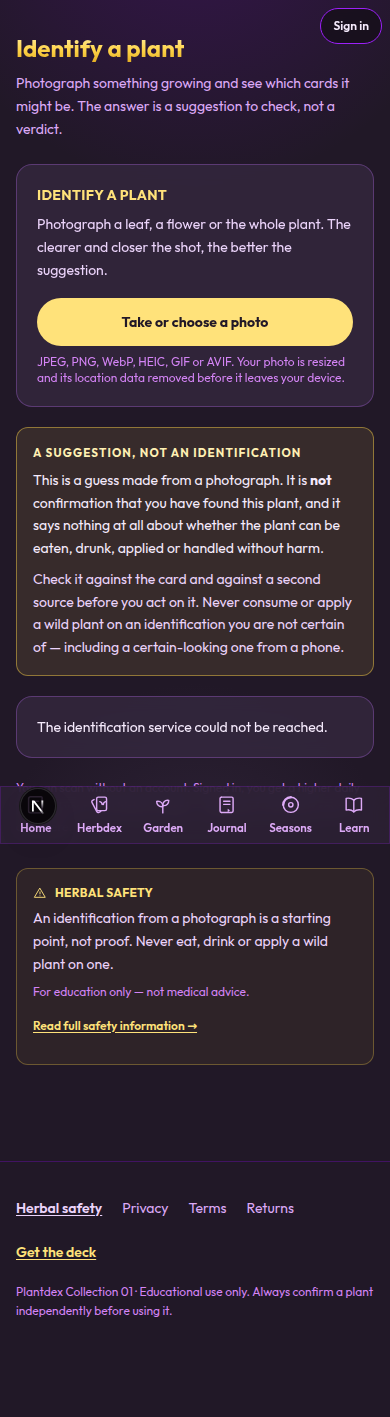
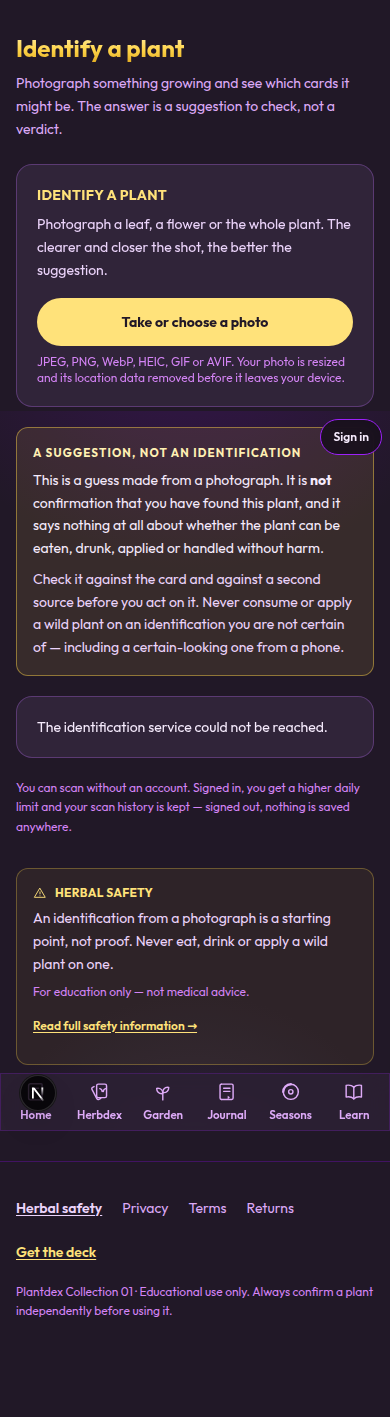
Put the scan answer where the player is looking
The report was "it says Identifying…, then nothing happens and the button
resets". The answer was arriving correctly every time — it was landing off the
bottom of the screen.

Measured on the deployed site rather than reasoned about. At 390x720, an
ordinary iPhone viewport once Safari's chrome is subtracted, the result heading
rendered at y=717 while the fixed bottom nav starts at y=662: below the fold and
behind the nav at once. At 360x640 it was worse. The page never scrolled and
nothing marked its arrival, so the only thing that visibly changed was the
button going back to its resting label — which is exactly what was described.

It applied to every outcome, not just matches. The falsification run below
reproduces it on the ERROR path: "The identification service could not be
reached." rendered at y=696 against a floor of 662. Any player whose scan
failed was told so, invisibly.

Scrolling to the RESULT would have been the wrong fix. The caution sits above
the answer so it is read WITH it, and a scroll that brought the answer on screen
without it would have stripped the safety framing off the one moment it exists
for. So the caution and the answer are now one region, and the region comes into
view: caution at the top of the screen, answer beneath it, as composed. It moves
only when the region is not already fully visible, so a desktop layout that fits
does not jump, and it honours prefers-reduced-motion.
[…]

diff --git a/src/components/scan/ScanPanel.tsx b/src/components/scan/ScanPanel.tsx
@@ -1,6 +1,6 @@
 'use client';
 
-import { useCallback, useRef, useState } from 'react';
+import { useCallback, useEffect, useRef, useState } from 'react';
 import Link from 'next/link';
 import { useAuth } from '@/state/AuthProvider';
 import { useHerbdex } from '@/state/HerbdexProvider';
@@ -35,6 +35,28 @@ export function ScanPanel() {
   const [problem, setProblem] = useState<string | null>(null);
   const [rateLimited, setRateLimited] = useState<{ signedIn: boolean } | null>(null);
   const [confirmed, setConfirmed] = useState<string | null>(null);
+
+  const answerRef = useRef<HTMLDivElement>(null);
+
+  /*
+   * Bring the answer to the player rather than trusting them to go and find it.
+   *
+   * Only when it is not already fully on screen, so a desktop layout where everything fits
+   * does not jump for no reason. `block: 'start'` puts the caution at the top of the viewport
+   * with the result under it. The fixed bottom nav is why this is measured against the
+   * viewport rather than assumed: a region can end inside `innerHeight` and still be hidden.
+   */
+  useEffect(() => {
+    if (!result && !problem) return;
+    const node = answerRef.current;
+    if (!node) return;
+    const rect = node.getBoundingClientRect();
+    if (rect.top >= 0 && rect.bottom <= window.innerHeight) return;
+    node.scrollIntoView({
+      behavior: window.matchMedia('(prefers-reduced-motion: reduce)').matches ? 'auto' : 'smooth',
+      block: 'start',
+    });
+  }, [result, problem]);
 
   const run = useCallback(
     async (file: File) => {
@@ -115,139 +137,157 @@ export function ScanPanel() {
         </p>
       </section>
 
-      {/* Unconditional, and above every result. Never gated on a score. */}
-      <ScanCaution />
+      {/*
+        THE ANSWER REGION, AND WHY IT IS ONE ELEMENT.
 
-      {problem && (
-        <section className="panel p-5">
-          <p className="text-sm text-violet-100">{problem}</p>
-          {rateLimited && !rateLimited.signedIn && (
-            <p className="mt-2 text-sm text-violet-300">
-              <Link
-                href="/account"
-                className="font-semibold text-gold-400 underline underline-offset-2 hover:text-gold-300"
-              >
-                Create a free account
-              </Link>{' '}
-              for a higher daily limit. Everything else here works without one.
-            </p>
-          )}
-        </section>
-      )}
+        A scan on a phone rendered its answer BELOW THE FOLD. Measured at 390x720 — an
+        ordinary iPhone viewport once Safari's chrome is subtracted — the result heading
+        landed at y=717 while the fixed bottom nav starts at y=662, so it was off the screen
+        and behind the nav at once. The player tapped, watched the button say "Identifying…"
+        and then reset, and saw nothing at all: the answer had arrived perfectly correctly,
+        sixty pixels past where anybody was looking. Every path rendered. None was visible.
 
-      {result && (
-        <section className="panel p-5" aria-live="polite">
-          {result.outcome === 'noMatch' ? (
-            <>
-              <h3 className="font-display text-lg font-bold text-gold-plate">
-                Not one of the 45 cards
-              </h3>
-              <p className="mt-2 text-sm leading-relaxed text-violet-200">
-                {result.candidates.length > 0
-                  ? 'We recognised the plant, but it is not in this collection. Plantdex covers 45 common wild species — most plants you photograph will not be among them.'
-                  : 'Nothing was recognised in that photograph. A closer shot of a single leaf or flower usually works better.'}
+        Scrolling to the RESULT would have been the wrong fix. The caution sits above the
+        answer deliberately, and a scroll that brought the answer on screen without it would
+        quietly strip the safety framing off the exact moment it exists for. So the caution
+        and the answer are ONE region, and it is the region that comes into view — caution at
+        the top of the screen, answer beneath it, the composition this screen was designed as.
+      */}
+      <div ref={answerRef} className="scroll-mt-4 space-y-5">
+        {/* Unconditional, and above every result. Never gated on a score. */}
+        <ScanCaution />
+
+        {problem && (
+          <section className="panel p-5">
+            <p className="text-sm text-violet-100">{problem}</p>
+            {rateLimited && !rateLimited.signedIn && (
+              <p className="mt-2 text-sm text-violet-300">
+                <Link
+                  href="/account"
+                  className="font-semibold text-gold-400 underline underline-offset-2 hover:text-gold-300"
+                >
+                  Create a free account
+                </Link>{' '}
+                for a higher daily limit. Everything else here works without one.
               </p>
-              {result.candidates.length > 0 && (
-                <ul className="mt-3 space-y-1 text-sm text-violet-300">
-                  {result.candidates.slice(0, 3).map((candidate) => (
-                    <li key={candidate.scientificName} className="flex justify-between gap-3">
-                      <span className="italic">{candidate.scientificName}</span>
-                      <span className="tabular-nums text-violet-400">
-                        {Math.round(candidate.score * 100)}%
-                      </span>
-                    </li>
-                  ))}
-                </ul>
-              )}
-              <Link
-                href="/herbdex"
-                className="mt-4 inline-flex min-h-11 items-center text-sm font-semibold text-gold-400 underline underline-offset-2 hover:text-gold-300"
-              >
-                Browse the collection instead &rarr;
-              </Link>
-            </>
-          ) : (
-            <>
-              <h3 className="font-display text-lg font-bold text-gold-plate">
-                {result.outcome === 'matched' ? 'Possible matches' : 'Not sure about this one'}
-              </h3>
-              <p className="mt-2 text-sm leading-relaxed text-violet-200">
-                {result.outcome === 'matched'
-                  ? 'Check the card before you confirm. You are the one recording the find.'
-                  : 'Nothing scored well enough to suggest. These are the closest, in order — open a card and compare it yourself.'}
-              </p>
+            )}
+          </section>
+        )}
 
-              <ul className="mt-4 space-y-3">
-                {result.candidates.map((candidate) => {
-                  const herb = candidate.match.herbId ? getHerb(candidate.match.herbId) : null;
-                  if (!herb) return null;
-                  const band = confidenceBand(candidate.score);
-                  const already = ready && isDiscovered(herb.id);
-                  return (
-                    <li key={candidate.scientificName} className="rounded-xl border border-violet-800/70 p-3">
-                      <div className="flex flex-wrap items-baseline justify-between gap-x-3 gap-y-1">
-                        <Link
-                          href={`/herbdex/${herb.id}`}
-                          className="font-bold text-violet-100 underline underline-offset-2 hover:text-gold-400"
-                        >
-                          {herb.commonName}
-                        </Link>
-                        <span className="text-xs tabular-nums text-violet-400">
-                          {Math.round(candidate.score * 100)}% &middot; {band}
+        {result && (
+          <section className="panel p-5" aria-live="polite">
+            {result.outcome === 'noMatch' ? (
+              <>
+                <h3 className="font-display text-lg font-bold text-gold-plate">
+                  Not one of the 45 cards
+                </h3>
+                <p className="mt-2 text-sm leading-relaxed text-violet-200">
+                  {result.candidates.length > 0
+                    ? 'We recognised the plant, but it is not in this collection. Plantdex covers 45 common wild species — most plants you photograph will not be among them.'
+                    : 'Nothing was recognised in that photograph. A closer shot of a single leaf or flower usually works better.'}
+                </p>
+                {result.candidates.length > 0 && (
+                  <ul className="mt-3 space-y-1 text-sm text-violet-300">
+                    {result.candidates.slice(0, 3).map((candidate) => (
+                      <li key={candidate.scientificName} className="flex justify-between gap-3">
+                        <span className="italic">{candidate.scientificName}</span>
+                        <span className="tabular-nums text-violet-400">
+                          {Math.round(candidate.score * 100)}%
                         </span>
-                      </div>
-                      <p className="mt-0.5 text-xs italic text-violet-400">
-                        {candidate.scientificName}
-                      </p>
+                      </li>
+                    ))}
+                  </ul>
+                )}
+                <Link
+                  href="/herbdex"
+                  className="mt-4 inline-flex min-h-11 items-center text-sm font-semibold text-gold-400 underline underline-offset-2 hover:text-gold-300"
+                >
+                  Browse the collection instead &rarr;
+                </Link>
+              </>
+            ) : (
+              <>
+                <h3 className="font-display text-lg font-bold text-gold-plate">
+                  {result.outcome === 'matched' ? 'Possible matches' : 'Not sure about this one'}
+                </h3>
+                <p className="mt-2 text-sm leading-relaxed text-violet-200">
+                  {result.outcome === 'matched'
+                    ? 'Check the card before you confirm. You are the one recording the find.'
+                    : 'Nothing scored well enough to suggest. These are the closest, in order — open a card and compare it yourself.'}
+                </p>
 
-                      {/* A card-printed warning belongs BEFORE the confirm button, not after it. */}
-                      {herb.warning && (
-                        <p className="mt-2 rounded-lg border border-pink-accent/50 bg-plum-800/60 p-2 text-xs leading-relaxed text-violet-100">
-                          <span className="font-bold text-pink-accent">Card warning: </span>
-                          {herb.warning}
+                <ul className="mt-4 space-y-3">
+                  {result.candidates.map((candidate) => {
+                    const herb = candidate.match.herbId ? getHerb(candidate.match.herbId) : null;
+                    if (!herb) return null;
+                    const band = confidenceBand(candidate.score);
+                    const already = ready && isDiscovered(herb.id);
+                    return (
+                      <li key={candidate.scientificName} className="rounded-xl border border-violet-800/70 p-3">
+                        <div className="flex flex-wrap items-baseline justify-between gap-x-3 gap-y-1">
+                          <Link
+                            href={`/herbdex/${herb.id}`}
+                            className="font-bold text-violet-100 underline underline-offset-2 hover:text-gold-400"
+                          >
+                            {herb.commonName}
+                          </Link>
+                          <span className="text-xs tabular-nums text-violet-400">
+                            {Math.round(candidate.score * 100)}% &middot; {band}
+                          </span>
+                        </div>
+                        <p className="mt-0.5 text-xs italic text-violet-400">
+                          {candidate.scientificName}
                         </p>
-                      )}
 
-                      {candidate.match.kind === 'sameGenus' ? (
-                        <p className="mt-2 text-xs leading-relaxed text-violet-300">
-                          Related to this card, but a different species &mdash; so it cannot be
-                          logged as {herb.commonName}.
-                        </p>
-                      ) : already ? (
-                        <p className="mt-2 text-xs font-semibold text-gold-300">
-                          Already in your collection.
-                        </p>
-                      ) : (
-                        <button
-                          type="button"
-                          onClick={() => {
-                            // The player's decision, and the only thing that awards anything.
-                            // `discover` is the same call the plant page makes, so a repeat
-                            // awards nothing — idempotency is the reducer's, not ours.
-                            discover(herb);
-                            track('scan_confirmed');
-                            setConfirmed(herb.id);
-                          }}
-                          className="mt-3 min-h-11 w-full rounded-full border border-gold-500/60 bg-gold-500/12 px-4 text-sm font-bold text-gold-300 transition-colors hover:bg-gold-500/20"
-                        >
-                          Yes, I found {herb.commonName}
-                        </button>
-                      )}
-                    </li>
-                  );
-                })}
-              </ul>
-            </>
-          )}
+                        {/* A card-printed warning belongs BEFORE the confirm button, not after it. */}
+                        {herb.warning && (
+                          <p className="mt-2 rounded-lg border border-pink-accent/50 bg-plum-800/60 p-2 text-xs leading-relaxed text-violet-100">
+                            <span className="font-bold text-pink-accent">Card warning: </span>
+                            {herb.warning}
+                          </p>
+                        )}
 
-          {typeof result.remaining === 'number' && (
-            <p className="mt-4 text-xs text-violet-400">
-              {result.remaining} identification{result.remaining === 1 ? '' : 's'} left today
-              {result.signedIn ? '' : ' — signing in raises the limit'}.
-            </p>
-          )}
-        </section>
-      )}
+                        {candidate.match.kind === 'sameGenus' ? (
+                          <p className="mt-2 text-xs leading-relaxed text-violet-300">
+                            Related to this card, but a different species &mdash; so it cannot be
+                            logged as {herb.commonName}.
+                          </p>
+                        ) : already ? (
+                          <p className="mt-2 text-xs font-semibold text-gold-300">
+                            Already in your collection.
+                          </p>
+                        ) : (
+                          <button
+                            type="button"
+                            onClick={() => {
+                              // The player's decision, and the only thing that awards anything.
+                              // `discover` is the same call the plant page makes, so a repeat
+                              // awards nothing — idempotency is the reducer's, not ours.
+                              discover(herb);
+                              track('scan_confirmed');
+                              setConfirmed(herb.id);
+                            }}
+                            className="mt-3 min-h-11 w-full rounded-full border border-gold-500/60 bg-gold-500/12 px-4 text-sm font-bold text-gold-300 transition-colors hover:bg-gold-500/20"
+                          >
+                            Yes, I found {herb.commonName}
+                          </button>
+                        )}
+                      </li>
+                    );
+                  })}
+                </ul>
+              </>
+            )}
+
+            {typeof result.remaining === 'number' && (
+              <p className="mt-4 text-xs text-violet-400">
+                {result.remaining} identification{result.remaining === 1 ? '' : 's'} left today
+                {result.signedIn ? '' : ' — signing in raises the limit'}.
+              </p>
+            )}
+          </section>
+        )}
+      </div>
 
       {confirmed && (
         <section className="panel p-5" aria-live="polite">
